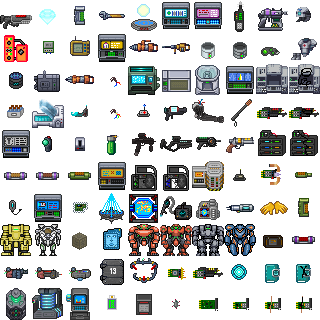
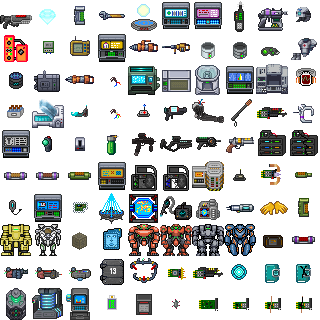
And so its done

Changed region(s): [[0.9062, 0.1875, 1.0, 0.4062]]

diff --git a/nano/css/shared.css b/nano/css/shared.css
@@ -887,6 +887,7 @@ img.sciTechTreeIconToolTip {
 .icon-scalpelmanager { background-position: -192px -96px; }
 .icon-stunbaton { background-position: -224px -96px; }
 .icon-cryobag { background-position: -256px -256px; }
+.icon-omnisurgery { background-position: -288px -96px; }
 
 .icon-seccomputer { background-position: 0px -128px; }
 .icon-flash { background-position: -32px -128px; }
@@ -902,9 +903,9 @@ img.sciTechTreeIconToolTip {
 .icon-supercell { background-position: 0px -160px; }
 .icon-hypercell { background-position: -32px -160px; }
 .icon-omegacell { background-position: -288px -192px; }
-.icon-atomsmall { background-position: -288px -256px; }
+.icon-atomsmall { background-position: -288px -160px; }
 .icon-bluespacecell { background-position: -64px -160px; }
-.icon-atomlarge { background-position: -288px -224px; }
+.icon-atomlarge { background-position: -288px -192px; }
 .icon-solarcontrol { background-position: -96px -160px; }
 .icon-generator { background-position: -128px -160px; }
 .icon-supergenerator { background-position: -160px -160px; }
@@ -951,6 +952,7 @@ img.sciTechTreeIconToolTip {
 .icon-freedom { background-position: -160px -288px; }
 .icon-module { background-position: -192px -288px; }
 .icon-borgmodule { background-position: -224px -288px; }
+.icon-combatdefib { background-position: -288px -64px; }
 
 .sciMenuButton {
     width: 300px;
